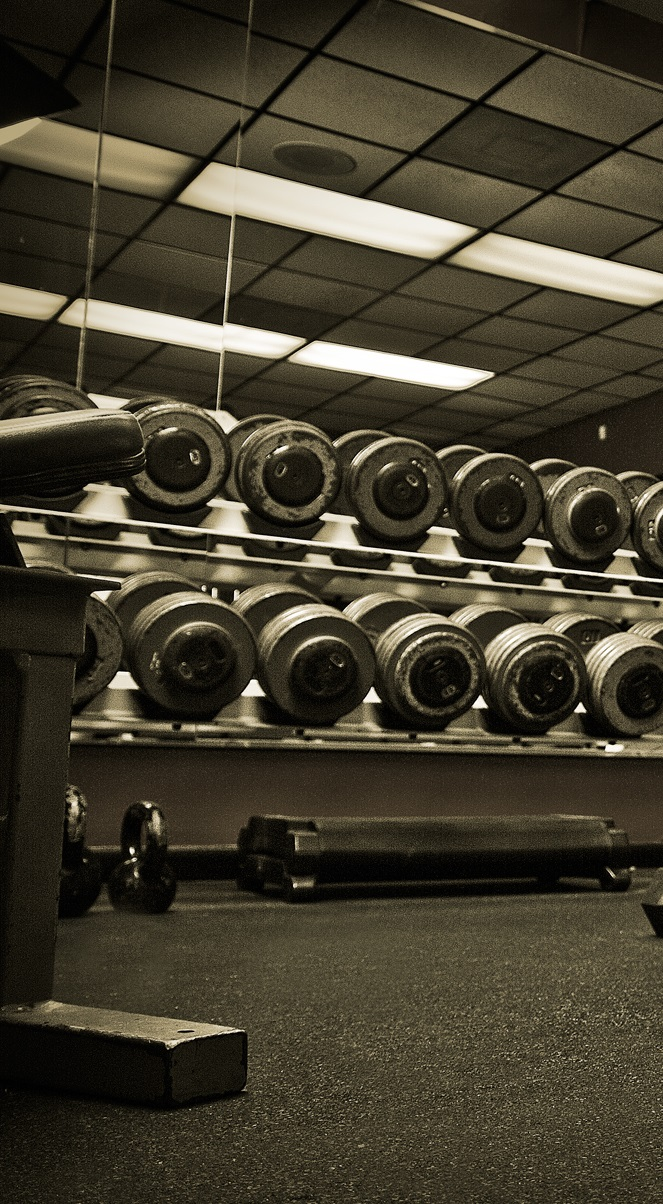
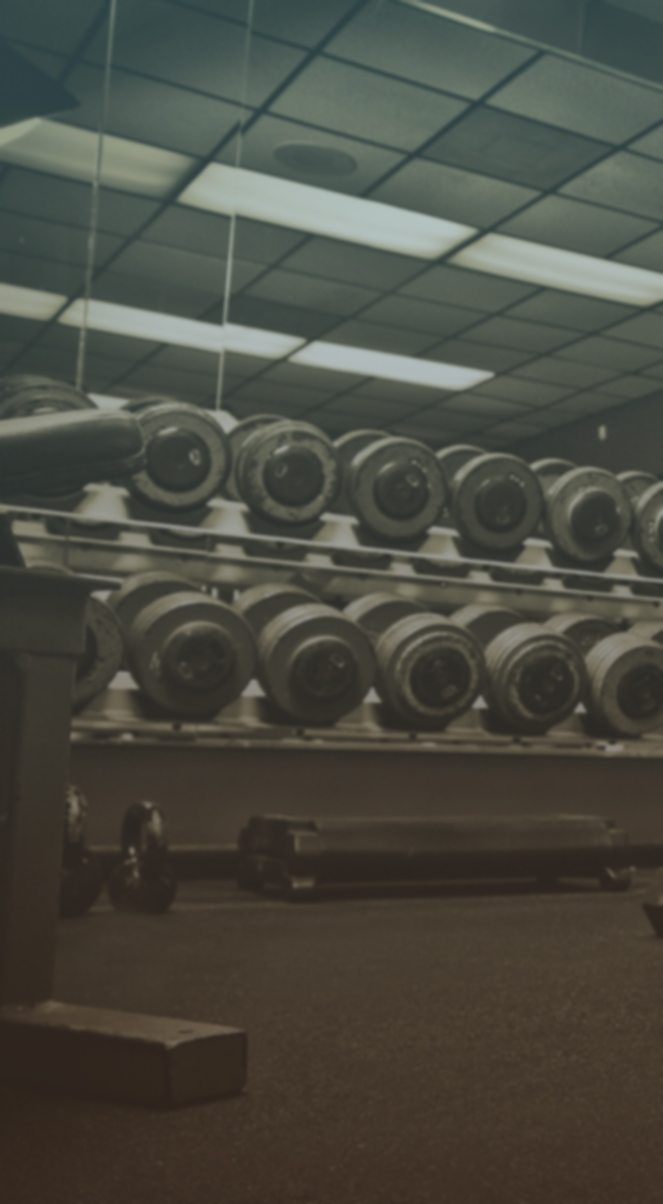
updated background

diff --git a/MyLiftingPal/css/myliftingpal.webflow.css b/MyLiftingPal/css/myliftingpal.webflow.css
@@ -2,11 +2,10 @@ body {
   height: 100%;
   padding-top: 156px;
   background-color: #524237;
-  background-image: -webkit-linear-gradient(rgba(109, 163, 173, 0.4), rgba(64, 48, 38, 0.90)), url('../images/weights.jpg');
-  background-image: linear-gradient(rgba(109, 163, 173, 0.4), rgba(64, 48, 38, 0.90)), url('../images/weights.jpg');
-  background-size: auto, cover;
-  background-repeat: repeat, repeat;
-  background-attachment: scroll, scroll;
+  background-image: url('../images/weights.jpg');
+  background-size: cover;
+  background-repeat: repeat;
+  background-attachment: fixed;
   font-family:'Open Sans', sans-serif;
   color: white;
   font-size: 14px;
@@ -318,8 +317,8 @@ p {
   background-image: linear-gradient(rgba(194, 190, 179, 0.59), rgba(194, 190, 179, 0.59));
 }
 .exerciseinfotable.exerciseinfotabledata {
-  background-image: -webkit-linear-gradient(rgba(37, 184, 204, 0.23), rgba(37, 184, 204, 0.23));
-  background-image: linear-gradient(rgba(37, 184, 204, 0.23), rgba(37, 184, 204, 0.23));
+  background-image: -webkit-linear-gradient(rgba(37, 184, 204, 0.22), rgba(37, 184, 204, 0.22));
+  background-image: linear-gradient(rgba(37, 184, 204, 0.22), rgba(37, 184, 204, 0.22));
 }
 .exercisedivname {
   width: 50%;
@@ -374,6 +373,9 @@ p {
   text-align: center;
 }
 @media (max-width: 991px) {
+  body {
+    background-attachment: fixed;
+  }
   h2 {
     text-shadow: none;
   }
@@ -453,6 +455,7 @@ p {
 @media (max-width: 767px) {
   body {
     padding-top: 47px;
+    background-attachment: fixed;
     text-align: center;
   }
   h2 {
@@ -550,7 +553,10 @@ p {
 }
 @media (max-width: 479px) {
   body {
-    background-attachment: scroll, fixed;
+    background-image: url('../images/weights.jpg'), none;
+    background-size: cover, auto;
+    background-repeat: repeat, repeat;
+    background-attachment: fixed, fixed;
   }
   h2 {
     text-shadow: none;

diff --git a/MyLiftingPal/create.html b/MyLiftingPal/create.html
@@ -1,6 +1,6 @@
 <!DOCTYPE html>
 <!-- This site was created in Webflow. http://www.webflow.com-->
-<!-- Last Published: Fri Nov 28 2014 02:04:04 GMT+0000 (UTC) -->
+<!-- Last Published: Fri Nov 28 2014 02:31:16 GMT+0000 (UTC) -->
 <html data-wf-site="54697ee94e26f780049e790b" data-wf-page="5477c807b86e26a2209dc0ef">
 <head>
   <meta charset="utf-8">

diff --git a/MyLiftingPal/index.html b/MyLiftingPal/index.html
@@ -1,6 +1,6 @@
 <!DOCTYPE html>
 <!-- This site was created in Webflow. http://www.webflow.com-->
-<!-- Last Published: Fri Nov 28 2014 02:04:04 GMT+0000 (UTC) -->
+<!-- Last Published: Fri Nov 28 2014 02:31:16 GMT+0000 (UTC) -->
 <html data-wf-site="54697ee94e26f780049e790b" data-wf-page="54697ee94e26f780049e790d">
 <head>
   <meta charset="utf-8">

diff --git a/MyLiftingPal/main-page.html b/MyLiftingPal/main-page.html
@@ -1,6 +1,6 @@
 <!DOCTYPE html>
 <!-- This site was created in Webflow. http://www.webflow.com-->
-<!-- Last Published: Fri Nov 28 2014 02:04:04 GMT+0000 (UTC) -->
+<!-- Last Published: Fri Nov 28 2014 02:31:16 GMT+0000 (UTC) -->
 <html data-wf-site="54697ee94e26f780049e790b" data-wf-page="546989c85294c14035d7ee01">
 <head>
   <meta charset="utf-8">

diff --git a/MyLiftingPal/sign-up.html b/MyLiftingPal/sign-up.html
@@ -1,6 +1,6 @@
 <!DOCTYPE html>
 <!-- This site was created in Webflow. http://www.webflow.com-->
-<!-- Last Published: Fri Nov 28 2014 02:04:04 GMT+0000 (UTC) -->
+<!-- Last Published: Fri Nov 28 2014 02:31:16 GMT+0000 (UTC) -->
 <html data-wf-site="54697ee94e26f780049e790b" data-wf-page="546988e74e26f780049e79bf">
 <head>
   <meta charset="utf-8">
